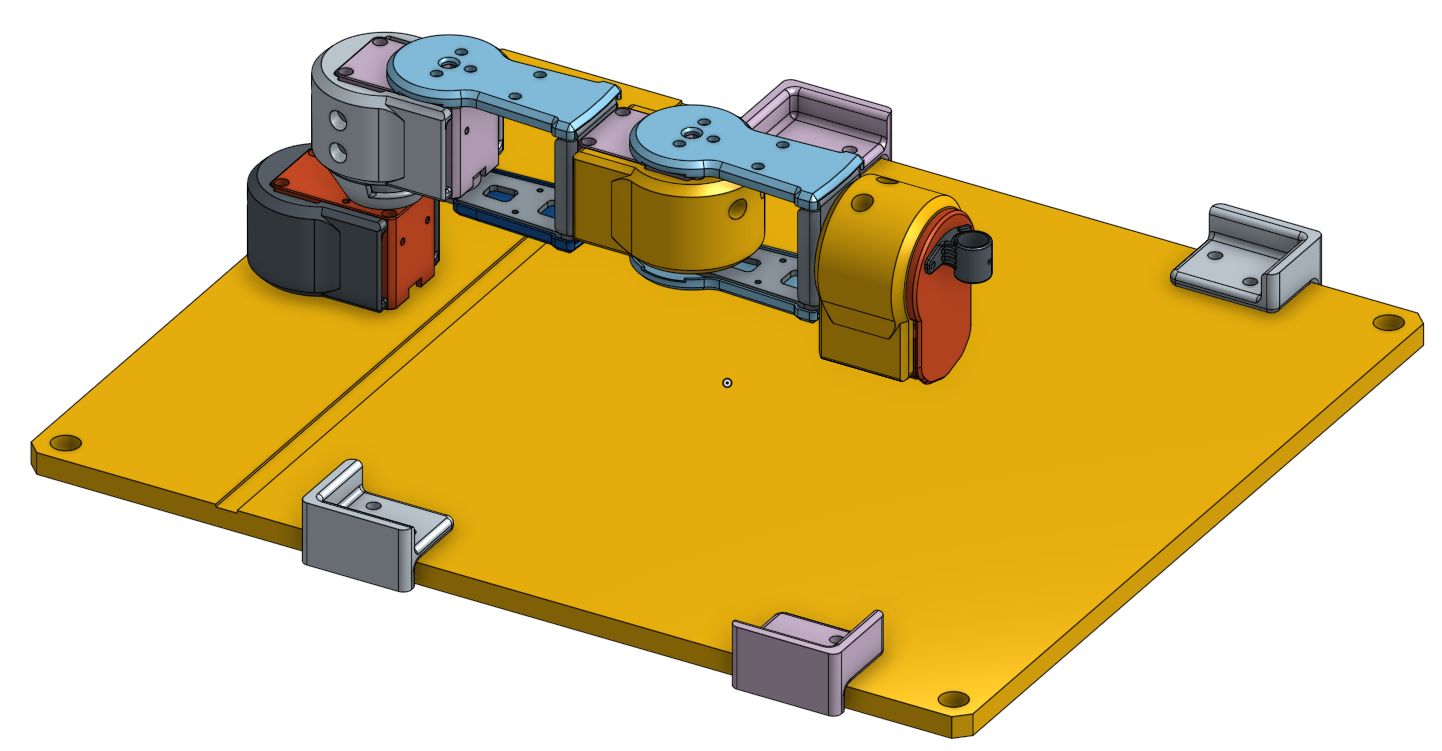
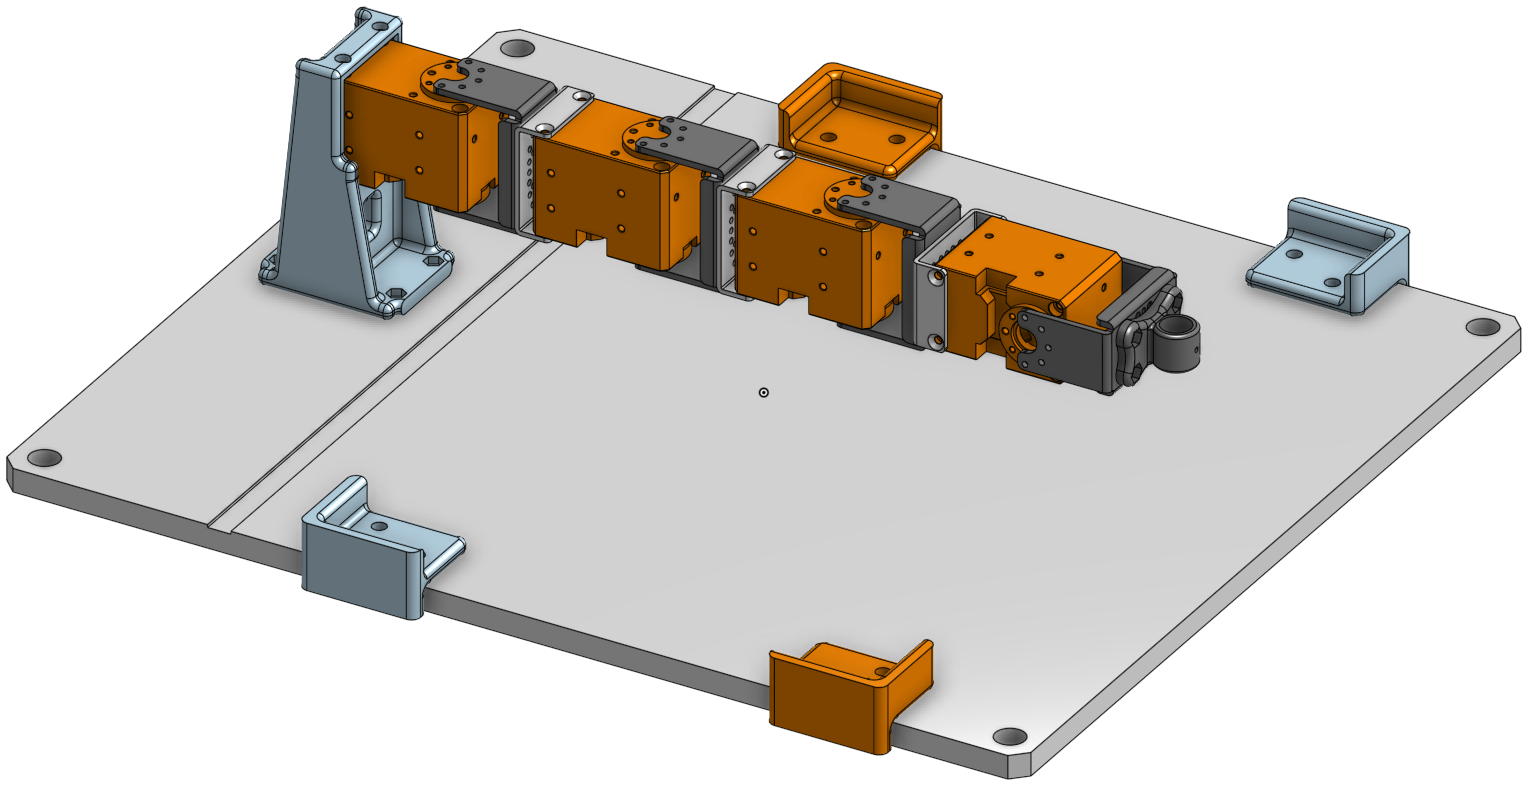
update om friends(SCARA)

diff --git a/docs/en/platform/openmanipulator.md b/docs/en/platform/openmanipulator.md
@@ -61,7 +61,7 @@ OpenManipulator is composed by [Dynamixel X series](http://emanual.robotis.com/d
 | **Grip range**      | mm (in) | 20~75 (0.79~2.95)                       | 20~75 (0.79~2.95)                       |
 | **Communication**   | -       | TTL (Level Multidrop BUS)               | TTL (Level Multidrop BUS)               |
 | **Software**        | -       | ROS, Dynamixel SDK, Arduino, Processing | ROS, Dynamixel SDK, Arduino, Processing |
-| **Main Controller** | -       | PC, OpenCR                              | PC, OpenCR                       |
+| **Main Controller** | -       | PC, OpenCR                              | PC, OpenCR                              |
 
 ## [Dimension](#dimension)
 
@@ -446,16 +446,38 @@ Open processing source code file (`OpenCR`>`arduino`>`opencr_arduino`>`opencr`>`
 | **Input Voltage**   | V       | 12                                      |
 | **DOF**             | -       | 4 (3 DOF + 1 End-Effector)              |
 | **Speed(Joint)**    | RPM     | 46                                      |
-| **Reach**           | mm (in) | 234 (9.21)                              |
+| **Reach**           | mm (in) | 276 (10.87)                             |
 | **Communication**   | -       | TTL (Level Multidrop BUS)               |
 | **Software**        | -       | Dynamixel SDK, Arduino, Processing      |
-| **Main Controller** | -       | Laptop PC, OpenCR                       |
+| **Main Controller** | -       | PC, OpenCR                              |
 
 ### Dimension
 
 ![](/assets/images/platform/openmanipulator/OpenManipulator_SCARA_spec_side.png)
 
 ### Hardware Setup
+
+#### Part Lists
+
+|              | Part Name | SCARA | Link
+|---------     |---------- |---------   |
+|**Chassis Parts** |BASE FRAME|1|[Download Link](https://www.thingiverse.com/thing:3069581)|
+|.                 |PEN HOLDER|1|[Download Link](https://www.thingiverse.com/thing:3069581)|
+|.                 |FRM BASE|1|[Download Link](https://www.thingiverse.com/thing:3069581)|
+|.                 |TAP HOLDER|1|[Download Link](https://www.thingiverse.com/thing:3069581)|
+|.                 |FR12_H101_K|4|[Shop Link](http://www.robotis-shop-en.com/?act=shop_en.goods_view&GS=2768&GC=GD0B0001)|
+|.                 |FR12_S102_K|3|[Shop Link](http://www.robotis-shop-en.com/?act=shop_en.goods_view&GS=2766&GC=GD0B0001)|
+|.                 |HN12_I101|4|[Shop Link](http://www.robotis-shop-en.com/?act=shop_en.goods_view&GS=2759&GC=GD0B0006)|
+|**Actuators**     |Dynamixel XM430-W350-T|4|[Shop Link](http://www.robotis-shop-en.com/?act=shop_en.goods_view&GS=2923&GC=GD080101)|
+|**Cables**        |CABLE_3P_130MM|3|[Shop Link](http://www.robotis-shop-en.com/?act=shop_en.goods_view&GS=2347&GC=GD0B0105&page=2)|
+|.                 |CABLE_3P_240MM|1|[Shop Link](http://www.robotis-shop-en.com/?act=shop_en.goods_view&GS=2926&GC=GD0B0105&page=3)|
+|**Miscellaneous** |WB_M2X03|24|[Shop Link](https://us.misumi-ec.com/vona2/detail/221000551286/?Inch=0&CategorySpec=00000070644%3A%3A2%0900000070373%3A%3A3)|
+|.                 |WB_M2_5X4|14|[Shop Link](https://us.misumi-ec.com/vona2/detail/221000551286/?Inch=0&CategorySpec=00000070644%3A%3A2.5%0900000070373%3A%3A8)|
+|.                 |WB_M2_5X06|8|[Shop Link](https://us.misumi-ec.com/vona2/detail/221000551286/?Inch=0&CategorySpec=00000070644%3A%3A2.5%0900000070373%3A%3A3%2C6)|
+|.                 |WB_M2_5X12|2|[Shop Link](https://us.misumi-ec.com/vona2/detail/221000551286/?Inch=0&CategorySpec=00000070644%3A%3A2.5%0900000070373%3A%3A8)|
+|.                 |FHS_M2_5X14|12|[Shop Link](https://us.misumi-ec.com/vona2/detail/221000547315/?Inch=0&CategorySpec=00000071822%3A%3A2.5%0900000071552%3)|
+|.                 |NUT_M2_5(0.45P)|8|[Shop Link](https://us.misumi-ec.com/vona2/detail/110300250540/?Inch=0&CategorySpec=00000070281%3A%3A2.5)|
+
 
 <!-- [Parts of OpenManipulator](https://docs.google.com/spreadsheets/d/1h46Vw3amU0FZl3JSRS42BNoAaKeJoDlHAJGMKVe05ts/edit#gid=1916070381) -->
 
@@ -477,6 +499,8 @@ Open processing source code file (`OpenCR`>`arduino`>`opencr_arduino`>`opencr`>`
 
 **NOTE**: Upload **OpenCR example source code** to OpenCR before run **processing source code**.
 {: .notice--info}
+
+![](/assets/images/platform/openmanipulator/OpenManipulator_SCARA_Processing.png)
 
 ### Video
 
@@ -500,7 +524,7 @@ Open processing source code file (`OpenCR`>`arduino`>`opencr_arduino`>`opencr`>`
 | **Reach**                | mm (in) | 400 (12.99)                             |
 | **Communication**        | -       | TTL (Level Multidrop BUS)               |
 | **Software**             | -       | Dynamixel SDK, Arduino, Processing      |
-| **Main Controller**      | -       | Laptop PC, OpenCR                       |
+| **Main Controller**      | -       | PC, OpenCR                              |
 
 ### Dimension
 
@@ -532,6 +556,8 @@ Open processing source code file (`OpenCR`>`arduino`>`opencr_arduino`>`opencr`>`
 
 **NOTE**: Upload **OpenCR example source code** to OpenCR before run **processing source code**.
 {: .notice--info}
+
+![](/assets/images/platform/openmanipulator/OpenManipulator_Link_Processing.png)
 
 ### Video
 
